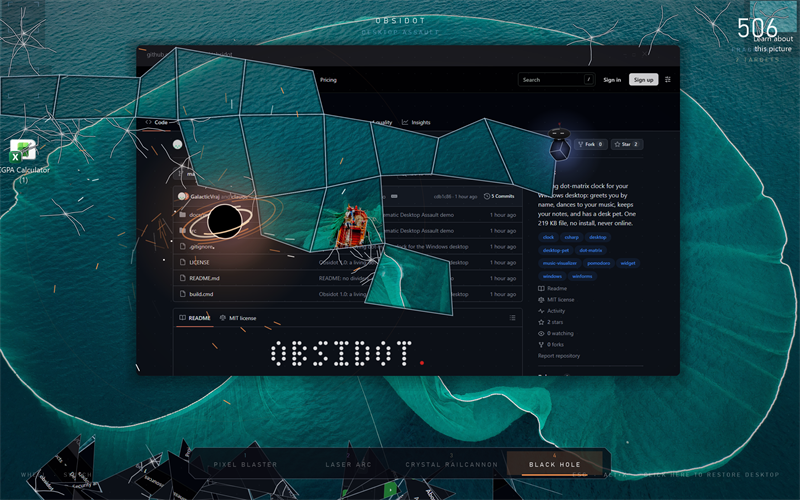
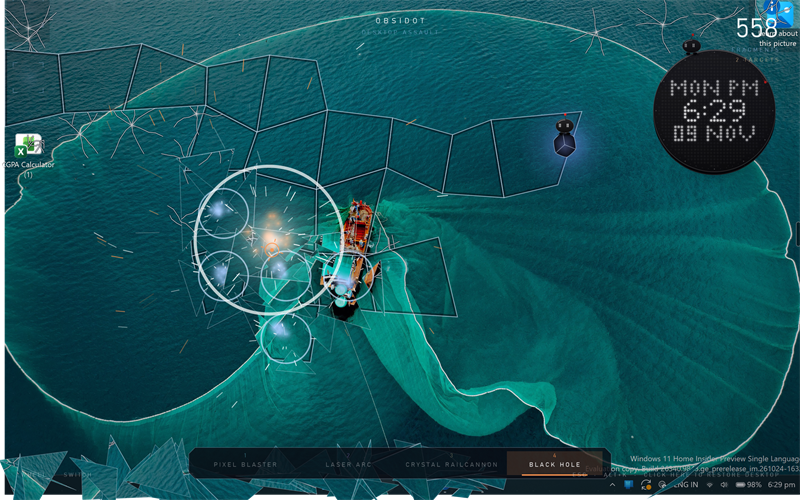
Desktop Assault demo on a real screenshot of a Windows desktop
--assault <dir> screen waits for F9, then plays the scripted demo on a real
screenshot, the real icons and the real wallpaper, exactly like Alt+K.

diff --git a/src/Shots.cs b/src/Shots.cs
@@ -175,15 +175,21 @@ namespace Obsidot
             c.card.Shot(1.6, 2, true).Save(Path.Combine(dir, "thought-card.png"), ImageFormat.Png);
             using (var ro = new Roamer(c.pet, "NEW FILE", "PROJECT-NOTES.PDF", null, 25)) ro.Render(U.Now + 1).Save(Path.Combine(dir, "pet-sign.png"), ImageFormat.Png);
         }
-        // `Obsidot.exe --assault <dir> [real]`: Desktop Assault, every weapon, as frames;
-        // on a made-up desktop, or with `real` on a snapshot of your actual screen and icons
-        public static void AssaultDemo(string dir, bool real, string window)
+        // `Obsidot.exe --assault <dir> [real|screen]`: Desktop Assault, every weapon, as frames;
+        // on a made-up desktop, with `real` on your wallpaper and icons redrawn, with `screen` on a real screenshot
+        public static void AssaultDemo(string dir, string mode, string window)
         {
+            bool real = mode == "real" || mode == "screen";
             Directory.CreateDirectory(dir);
             var c = new Crystal(); float S = U.S;
             var scr = System.Windows.Forms.Screen.PrimaryScreen.Bounds; int w = scr.Width, h = scr.Height;
             Bitmap wall = null, screen = null; List<DIcon> icons = null;
             if (!real) screen = Staged(w, h, out wall, out icons);
+            else if (mode == "screen")       // you set the screen up, press F9, and the Assault takes its own screenshot, exactly as with Alt+K
+            {
+                while ((GetAsyncKeyState(0x78) & 0x8000) == 0) System.Threading.Thread.Sleep(30);
+                System.Threading.Thread.Sleep(400);
+            }
             else       // your wallpaper and your desktop icons, redrawn: open windows never get in the shot
             {
                 icons = Desk.Read(scr); wall = Desk.Wallpaper(scr.Size) ?? new Bitmap(w, h);
@@ -215,7 +221,7 @@ namespace Obsidot
                 }
                 File.WriteAllLines(Path.Combine(dir, "_icons.txt"), icons.ConvertAll(d => d.Name).ToArray());
             }
-            screen.Save(Path.Combine(dir, "_staged.png"), ImageFormat.Png);
+            if (screen != null) screen.Save(Path.Combine(dir, "_staged.png"), ImageFormat.Png);
             var game = new Assault(c, new PointF(w * 0.7f, h * 0.3f), screen, wall, icons);
             game.LoadWorld();
             double fps = 15, T0 = U.Now + 3000; game.Begin(T0);
@@ -235,6 +241,8 @@ namespace Obsidot
                 }
             }
         }
+
+        [System.Runtime.InteropServices.DllImport("user32.dll")] static extern short GetAsyncKeyState(int vk);
 
         // a night-sky wallpaper, a dark code editor, a taskbar and seven desktop icons, all drawn here
         static Bitmap Staged(int w, int h, out Bitmap wall, out List<DIcon> icons)

diff --git a/src/Core.cs b/src/Core.cs
@@ -26,7 +26,7 @@ namespace Obsidot
             AppDomain.CurrentDomain.UnhandledException += (s, e) => Settings.Log(e.ExceptionObject);
             Settings.Load();
             if (args.Length > 0 && args[0] == "--shots") { Settings.Sound = false; Settings.NoSave = true; Snd.Init(); Shots.Run(args.Length > 1 ? args[1] : "."); return; }
-            if (args.Length > 0 && args[0] == "--assault") { Settings.Sound = false; Settings.NoSave = true; Snd.Init(); Shots.AssaultDemo(args.Length > 1 ? args[1] : ".", args.Length > 2 && args[2] == "real", args.Length > 3 ? args[3] : null); return; }
+            if (args.Length > 0 && args[0] == "--assault") { Settings.Sound = false; Settings.NoSave = true; Snd.Init(); Shots.AssaultDemo(args.Length > 1 ? args[1] : ".", args.Length > 2 ? args[2] : "", args.Length > 3 ? args[3] : null); return; }
             if (args.Length > 0 && args[0] == "--anim") { Settings.Sound = false; Settings.NoSave = true; Snd.Init(); Shots.Anim(args.Length > 1 ? args[1] : "."); return; }
             if (args.Length > 1 && args[0] == "--bench") { Settings.NoSave = true; Snd.Init(); Crystal.BenchLog = args[1]; Application.Run(new Crystal()); return; }
             bool fresh;

diff --git a/README.md b/README.md
@@ -23,11 +23,11 @@
 
 <p>Press <kbd>Alt</kbd> + <kbd>K</kbd> on <b>any</b> screen (Chrome, a PDF, your desktop) and it freezes into glass.<br>Crack it. Shatter it. Pull it into a black hole. Press <kbd>Esc</kbd>, and everything is exactly as it was.</p>
 
-<img src="docs/media/assault.gif" width="720" alt="Desktop Assault on a real desktop: a browser window shatters like glass and a black hole swallows the pieces">
+<img src="docs/media/assault.gif" width="720" alt="Desktop Assault on a real Windows desktop: the screen shatters like glass and a black hole swallows the pieces">
 
 <p><kbd>1</kbd> <b>Pixel Blaster</b> &nbsp;&nbsp; <kbd>2</kbd> <b>Laser Arc</b> &nbsp;&nbsp; <kbd>3</kbd> <b>Crystal Railcannon</b> &nbsp;&nbsp; <kbd>4</kbd> <b>Black Hole</b><br>📁 folders break into chunks &nbsp;·&nbsp; 🖼 photos burst into pixels &nbsp;·&nbsp; 📄 documents flutter apart &nbsp;·&nbsp; 🗑 the Recycle Bin detonates</p>
 
-<p><sub><b>Nothing on disk is ever touched.</b> It plays on a snapshot of your screen. Filmed on a real desktop: its wallpaper, its icons, one browser window.</sub></p>
+<p><sub><b>Nothing on disk is ever touched.</b> It plays on a snapshot of your screen. Filmed on a real Windows desktop, exactly as it plays when you press Alt + K.</sub></p>
 
 <br><br>
 
@@ -161,7 +161,7 @@ About 4,500 lines of C# 5, WinForms and GDI+, no dependencies.
 - **Desktop Assault** keeps its own 32-bit DIB back buffer and a jittered glass lattice that cracks and shatters pane by pane, and reads the real icon positions from Explorer's list view.
 - **Idle-aware:** 4 Hz at rest, 60 fps only while something moves, almost nothing while covered.
 
-`Obsidot.exe --shots <folder>` renders the main states to PNG. `--anim` and `--assault` render the frames behind the animations on this page; `--assault <dir> real` films it on your own wallpaper and icons (open windows are never captured).
+`Obsidot.exe --shots <folder>` renders the main states to PNG. `--anim` and `--assault` render the frames behind the animations on this page; `--assault <dir> screen` waits for <kbd>F9</kbd>, then films it on a real screenshot of your desktop.
 </details>
 
 <br>
